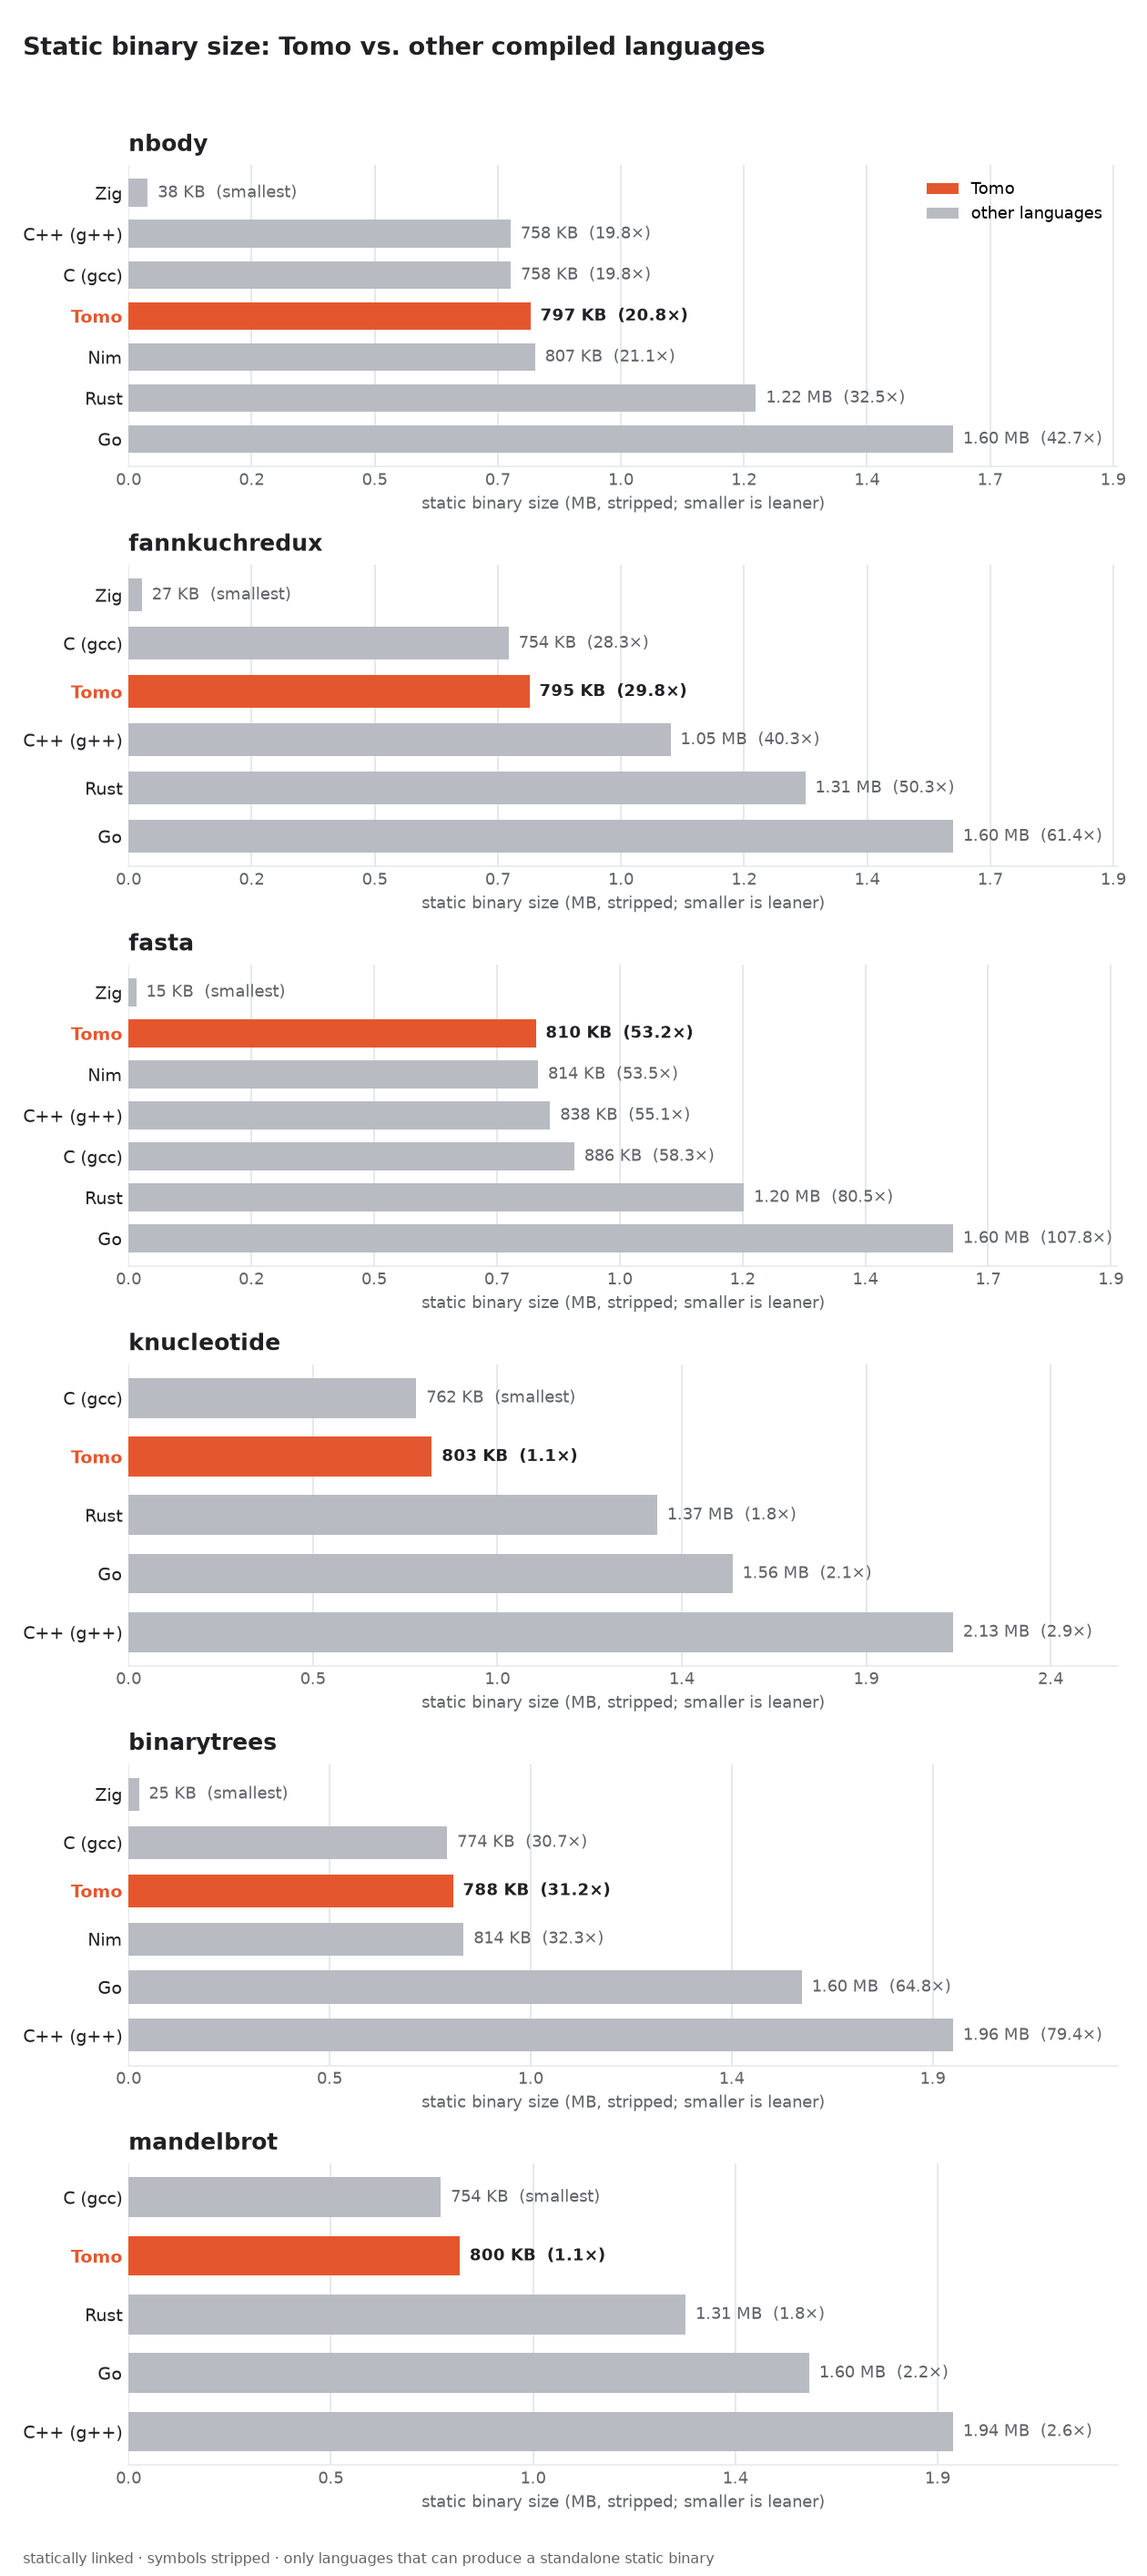
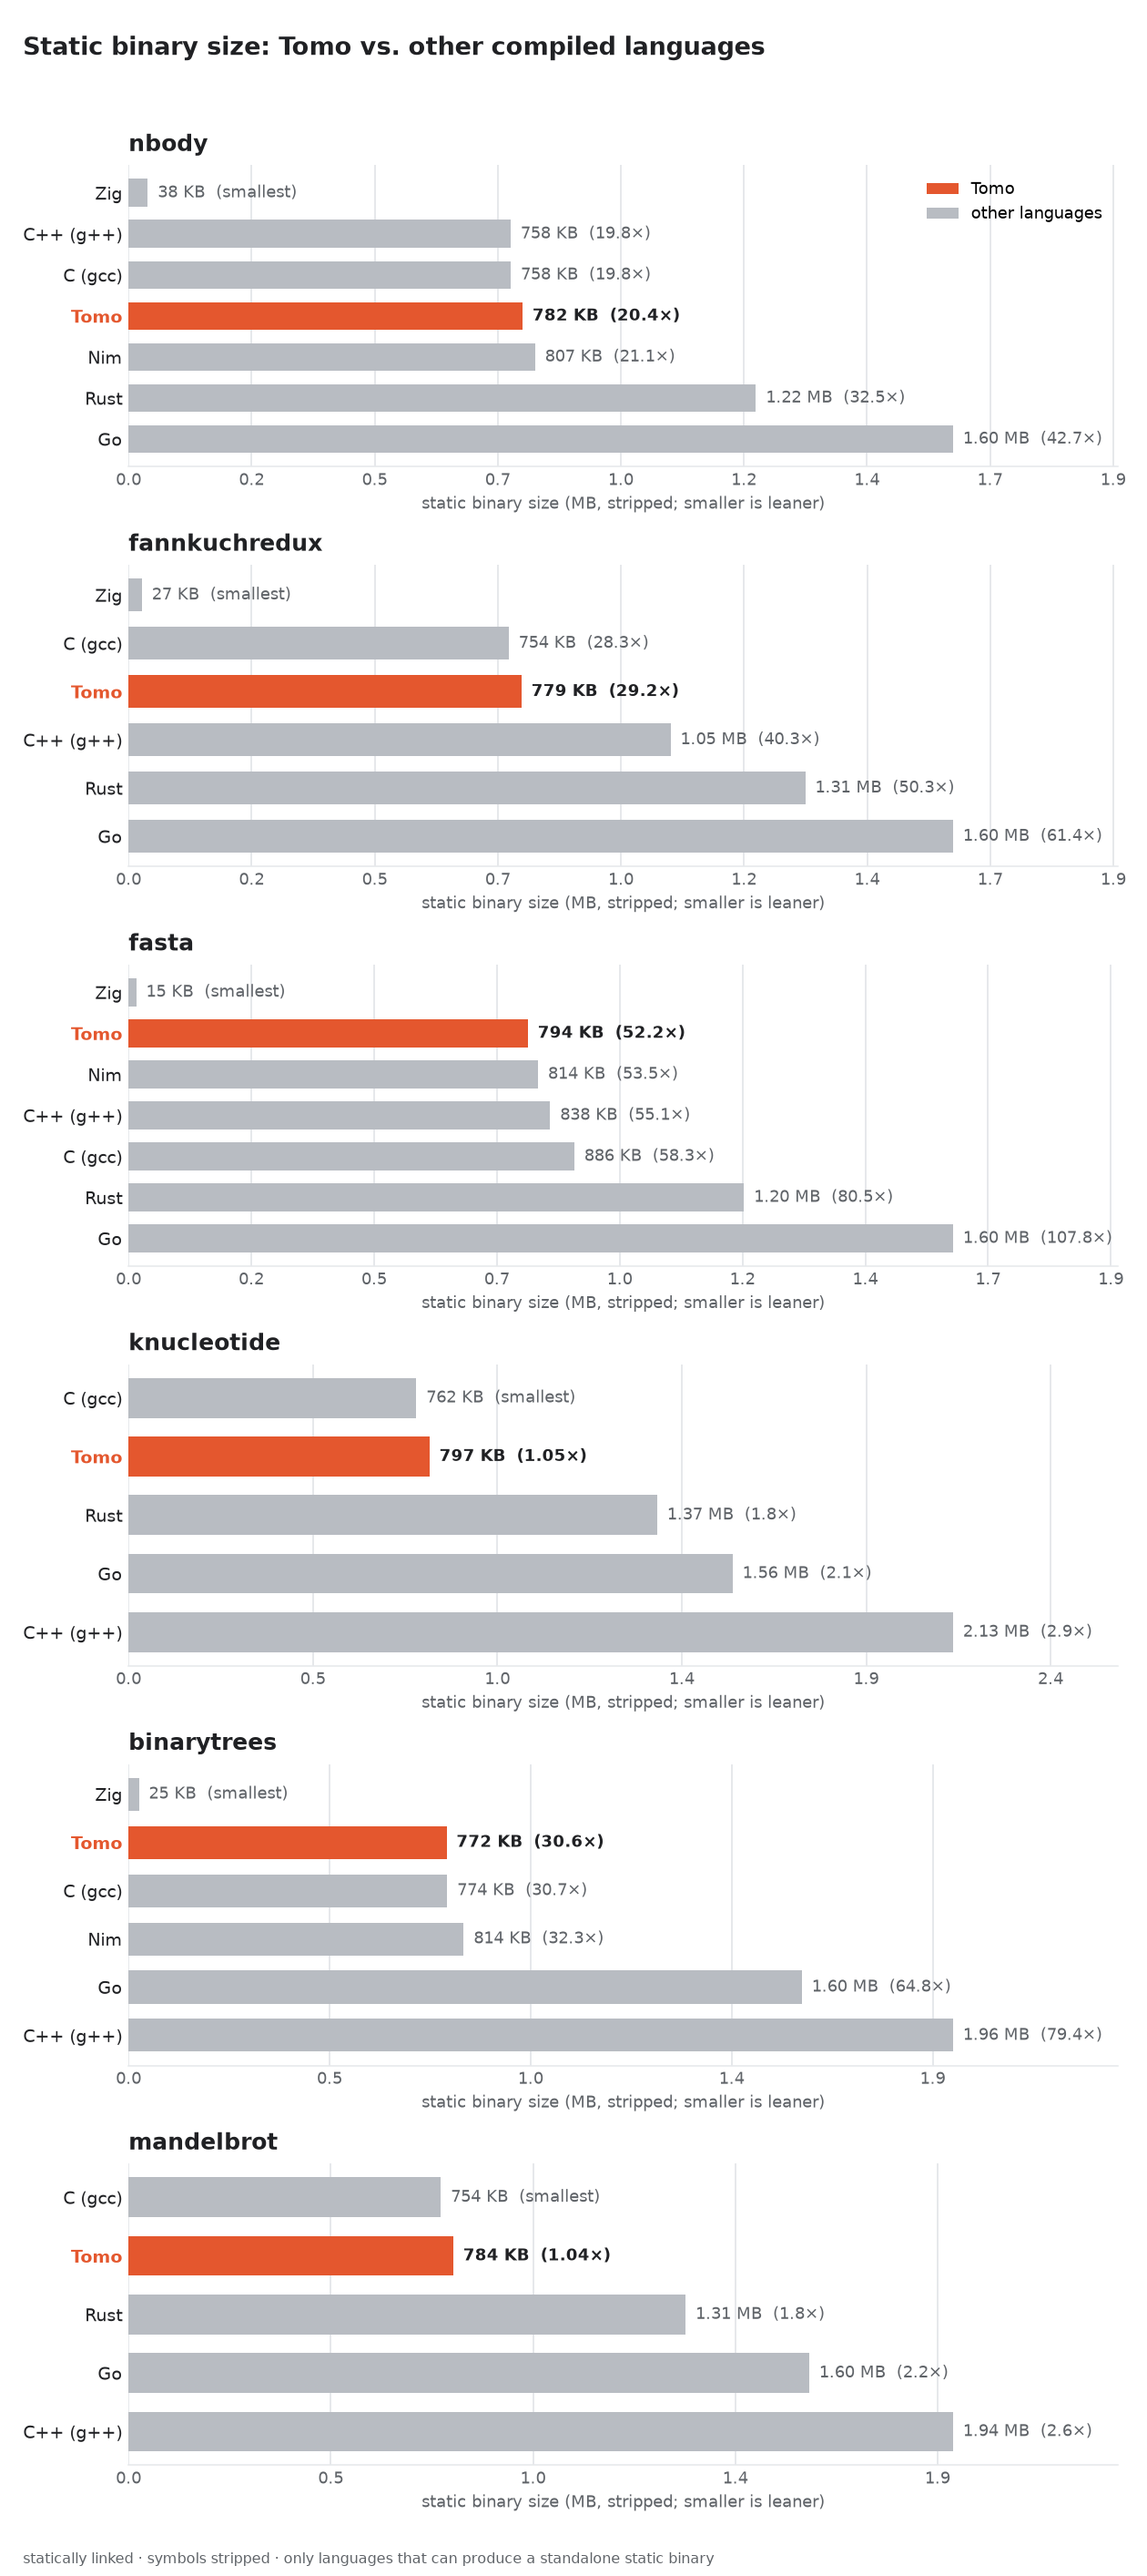
Keep profiling out of programs built without --instrument
Every compiled program carried profiling.c, about 15.7 KB, whether or not
it was instrumented. The codegen side was already gated: TOMO_PROFILED()
on a function and the tomo_profile_start() call in the runner are both
emitted only under --instrument. What kept the file alive was
stdlib.c's signal_handler calling tomo_profile_report() outright, since a
signal skips atexit(). One reference from the runtime is enough to defeat
--gc-sections, and an #ifdef cannot help: libtomo.a is compiled once and
shipped, so it has no idea which programs will be instrumented.

The runtime already has the right mechanism for this. tomo_profile_enable()
now registers its report with tomo_at_cleanup() instead of atexit(), so
tomo_cleanup() prints it on every way out the runtime already handles, and
nothing in the runtime names tomo_profile_report() any more. stdlib.c no
longer includes profiling.h at all, so a direct call cannot creep back in
without failing to compile.

The SIGILL branch of the signal handler now runs tomo_cleanup() itself.
It reached it before only by raising SIGABRT and landing back in this
handler, which a program that had already taken a SIGABRT (SA_RESETHAND)
would not have done. Draining the cleanup list keeps that re-entry
harmless, and tomo_profile_report() has its own guard besides.

Binaries drop from ~800 KB to ~785 KB (772-797 KB across the nine ports)
with zero tomo_profile symbols linked. --instrument still reports exactly
[…]

diff --git a/src/stdlib/profiling.c b/src/stdlib/profiling.c
@@ -1,5 +1,6 @@
 // Implementation of the runtime function profiler (see profiling.h).
 
+#include <gc.h>
 #include <stdio.h>
 #include <stdlib.h>
 #include <string.h>
@@ -181,6 +182,13 @@ void tomo_profile_mark_start(void) {
     ticks_started = ticks();
 }
 
+// tomo_cleanup() runs this, so the report is printed on every way out that
+// the runtime already handles: a normal exit, a `fail()`, or a fatal signal.
+static void report_at_cleanup(void *userdata) {
+    (void)userdata;
+    tomo_profile_report();
+}
+
 public
 void tomo_profile_enable(void) {
     tomo_profile_mark_start();
@@ -191,7 +199,11 @@ void tomo_profile_enable(void) {
     const char *flame = getenv("FLAME_GRAPH");
     if (flame && flame[0] != '\0') flame_path = flame;
     tomo_profiling_enabled = true;
-    atexit(tomo_profile_report);
+    // An instrumented program calls tomo_profile_start() ahead of tomo_init(),
+    // so the collector may not be up yet and tomo_at_cleanup() allocates.
+    // GC_INIT() is idempotent, so tomo_init()'s own call stays a no-op.
+    GC_INIT();
+    tomo_at_cleanup((Closure_t){.fn = report_at_cleanup, .userdata = NULL});
 }
 
 public

diff --git a/src/stdlib/stdlib.c b/src/stdlib/stdlib.c
@@ -24,7 +24,6 @@
 #include "optionals.h"
 #include "paths.h"
 #include "print.h"
-#include "profiling.h"
 #include "siphash.h"
 #include "stacktrace.h"
 #include "stdlib.h"
@@ -151,14 +150,14 @@ static _Noreturn void signal_handler(int sig, siginfo_t *info, void *userdata) {
         else fputs("===== ILLEGAL INSTRUCTION =====\n\n", stderr);
         print_stacktrace(stderr, 3);
         fflush(stderr);
-        tomo_profile_report();
+        tomo_cleanup();
         if (Bool$parse(Text$from_str(getenv("TOMO_CORE_DUMP")), NULL) == true) raise(SIGABRT);
         raise(SIGABRT);
         _exit(1);
     }
-    // A crash skips atexit(), so an instrumented program prints its profile
-    // here instead (a no-op in every other program):
-    tomo_profile_report();
+    // A crash skips atexit(), so run the cleanups here instead. Draining the
+    // list makes this idempotent, which matters because the SIGILL branch
+    // above raises SIGABRT and lands back in this handler.
     tomo_cleanup();
     raise(sig);
     _exit(1);

diff --git a/src/stdlib/stdlib.h b/src/stdlib/stdlib.h
@@ -13,6 +13,13 @@ extern Text_t TOMO_VERSION_TEXT;
 
 void tomo_configure(void);
 void tomo_init(void);
+// Run on the way out, by atexit() and by the fatal-signal handler alike.
+// This is how anything optional attaches itself to program exit without the
+// runtime having to name it: `--instrument` builds register their profile
+// report here (profiling.c), which is what keeps profiling.c out of the link
+// for everyone else, since one direct reference would defeat --gc-sections.
+// An #ifdef could not do that job: libtomo.a is compiled once and shipped, so
+// it cannot know which programs will be instrumented.
 void tomo_at_cleanup(Closure_t fn);
 void tomo_cleanup(void);
 

diff --git a/benchmarks/README.md b/benchmarks/README.md
@@ -46,10 +46,11 @@ Per-benchmark graphs: [n-body](results-nbody.png) ·
 
 Binary sizes are statically linked and stripped, so each number is the whole
 self-contained footprint, not a stub leaning on a system `libc`. Tomo's is
-**~800 KB and near-constant** across all nine (788–813 KB): the runtime
+**~785 KB and near-constant** across all nine (772–797 KB): the runtime
 dominates and the program is noise. Only Zig's minimal-runtime musl builds
 (15–38 KB) are in a different league. Tomo lands within a few percent of C
-(smaller on fasta, slightly larger elsewhere), and well under Nim (~810 KB),
+(smaller on fasta, level on binary-trees, 3–5% larger elsewhere), and well
+under Nim (~810 KB),
 Rust (~1.2–1.4 MB), Go (~1.4–1.7 MB), and C++ (up to 2.2 MB). Only a handful
 of languages produce a standalone static binary at all, so benchmarks left
 with fewer than five of them
